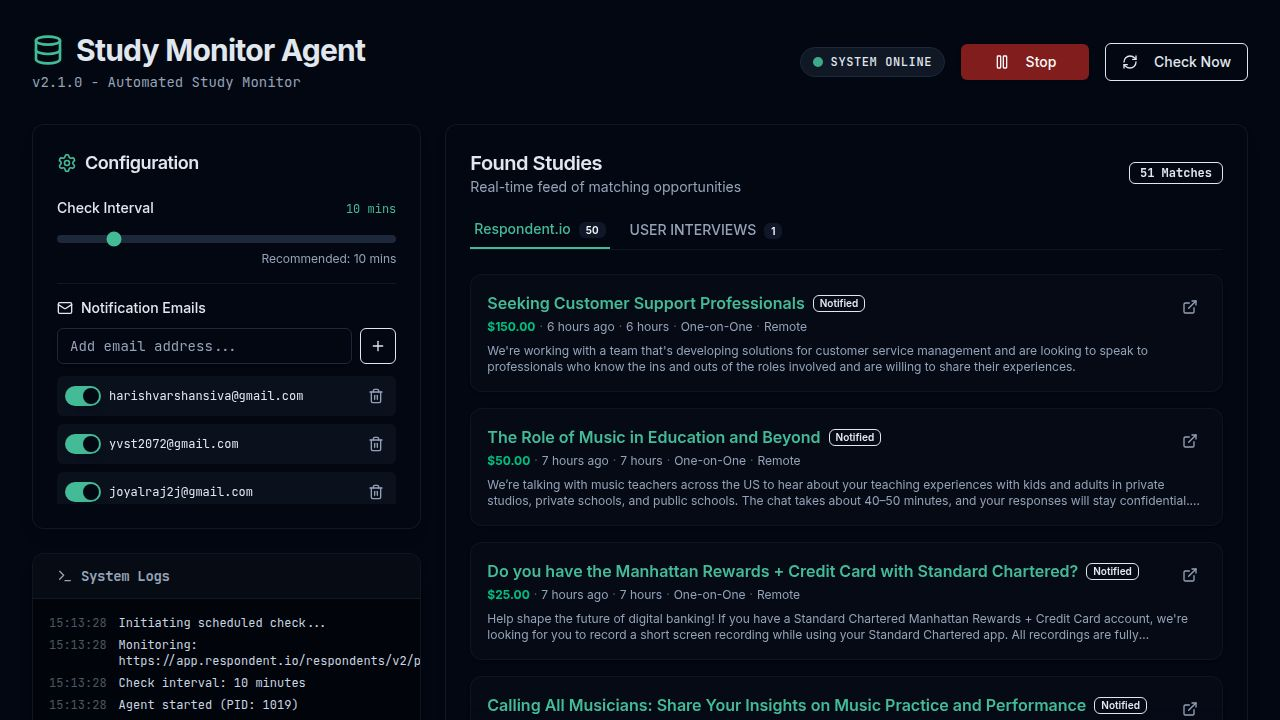
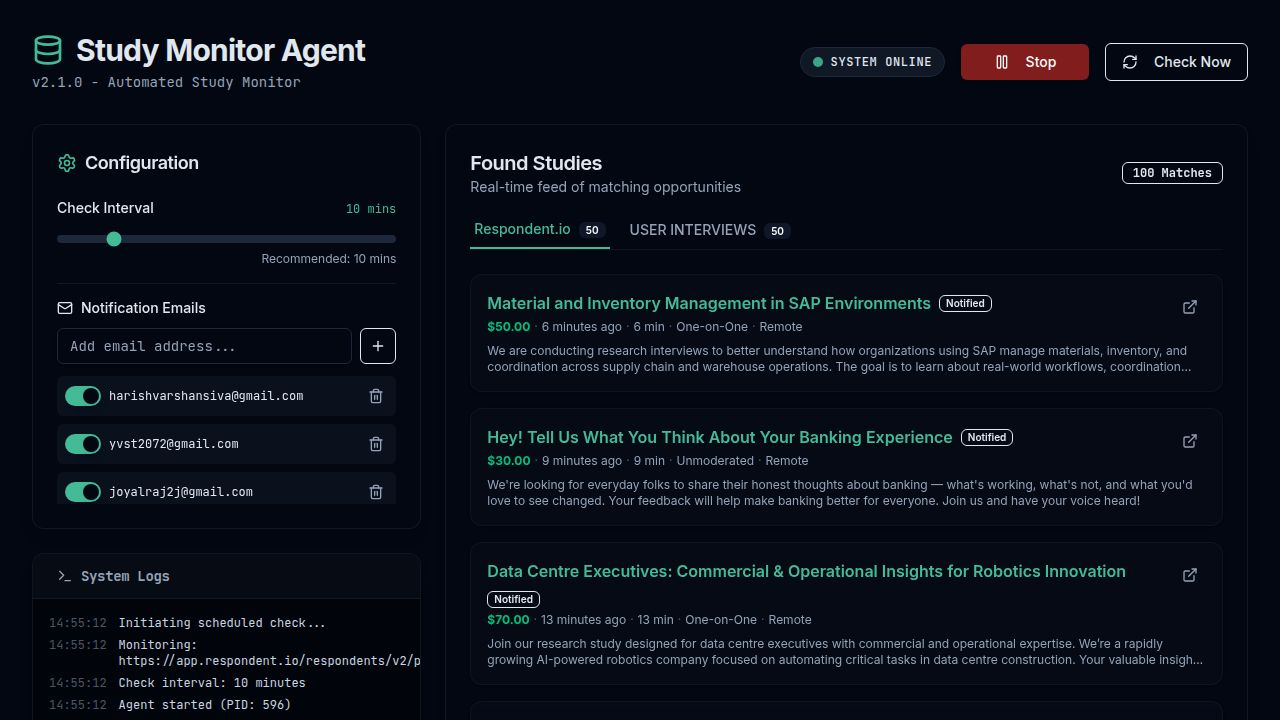
Update study scraping and notifications to correctly display information
Refactors the User Interviews scraping logic to accurately extract study payout and duration, and updates logging and email notifications to clearly label study sources as 'Respondent.io' or 'User Interviews'.

Replit-Commit-Author: Agent
Replit-Commit-Session-Id: bab7a0d9-899f-48bb-af42-cc7baa8dabe6
Replit-Commit-Checkpoint-Type: full_checkpoint
Replit-Commit-Event-Id: 573b36c7-297f-42d4-859a-39e23a9a3aa0
Replit-Commit-Screenshot-Url: https://storage.googleapis.com/screenshot-production-us-central1/a5268491-a58c-43be-b987-22518db7b58a/bab7a0d9-899f-48bb-af42-cc7baa8dabe6/R6gcB1m
Replit-Helium-Checkpoint-Created: true

diff --git a/server/scraper.ts b/server/scraper.ts
@@ -299,23 +299,34 @@ export async function scrapeUserInterviewsStudies(): Promise<ScrapedStudy[]> {
         if (seenIds.has(externalId)) continue;
         seenIds.add(externalId);
 
-        // Payout extraction - be more specific to avoid picking up duration or other numbers
-        // Match $ followed by numbers, but ensure it's not immediately followed by "MINUTES" or "HOURS"
-        const payoutMatch = text.match(/\$\s*(\d+(?:,\d{3})*(?:\.\d{2})?)(?!\s*(?:min|hour|hr|minute))/i);
-        const payout = payoutMatch ? Math.round(parseFloat(payoutMatch[1].replace(/,/g, ''))) : 0;
-        if (payout <= 0) continue;
-
-        // Duration extraction - look for numbers specifically associated with time units
-        const durationMatch = text.match(/(\d+)\s*(?:min|hour|hr|minute)s?\b/i);
+        // Payout and Duration extraction - specifically targeting their known layout
+        // Incentive is usually at the top right, Duration is below it.
+        // We look for the incentive first ($XX)
+        const incentiveEl = card.querySelector('.ProjectListing__incentive, [class*="incentive"], [class*="Incentive"]');
+        const durationEl = card.querySelector('.ProjectListing__duration, [class*="duration"], [class*="Duration"]');
+        
+        let payout = 0;
         let duration = 'Unknown';
-        if (durationMatch) {
-          const unit = durationMatch[0].toLowerCase();
-          if (unit.includes('hour') || unit.includes('hr')) {
-            duration = `${durationMatch[1]} hr`;
-          } else {
-            duration = `${durationMatch[1]} min`;
+
+        if (incentiveEl) {
+          const pMatch = incentiveEl.textContent?.match(/\d+/);
+          payout = pMatch ? parseInt(pMatch[0]) : 0;
+        } else {
+          const pMatch = text.match(/\$\s*(\d+(?:,\d{3})*)/);
+          payout = pMatch ? parseInt(pMatch[1].replace(/,/g, '')) : 0;
+        }
+
+        if (durationEl) {
+          duration = durationEl.textContent?.trim() || 'Unknown';
+        } else {
+          // Fallback regex that avoids the payout number
+          const dMatch = text.match(/(\d+)\s*(?:min|hour|hr|minute)s?\b/i);
+          if (dMatch) {
+            duration = dMatch[0].toLowerCase().includes('hour') || dMatch[0].toLowerCase().includes('hr') ? `${dMatch[1]} hr` : `${dMatch[1]} min`;
           }
         }
+
+        if (payout <= 0) continue;
 
         // Study Format/Type extraction from badges
         const badges = Array.from(card.querySelectorAll('[class*="badge"], [class*="Tag"], .ProjectListing__type')).map(b => b.textContent?.toLowerCase() || '');

diff --git a/server/email.ts b/server/email.ts
@@ -69,7 +69,7 @@ export async function sendStudyNotification(emails: string[], studies: Study[]):
     const studyList = studies.map(study => `
       <tr style="border-bottom: 1px solid #e5e7eb;">
         <td style="padding: 16px;">
-          <h3 style="margin: 0 0 8px 0; color: #111827;">${study.title}</h3>
+          <h3 style="margin: 0 0 8px 0; color: #111827;">[${study.platform === 'respondent' ? 'Respondent.io' : 'User Interviews'}] ${study.title}</h3>
           <p style="margin: 0; color: #6b7280; font-size: 14px;">
             <strong>Payout:</strong> $${study.payout} | 
             <strong>Duration:</strong> ${study.duration} | 

diff --git a/server/agent.ts b/server/agent.ts
@@ -46,7 +46,7 @@ async function processPlatformStudies(platform: 'respondent' | 'userinterviews',
         notified: false,
       });
       newStudies.push(saved);
-      await addLog(`[${platform}] New study: "${saved.title}" ($${saved.payout})`, "success");
+      await addLog(`[${platform === 'respondent' ? 'Respondent.io' : 'User Interviews'}] New study: "${saved.title}" ($${saved.payout})`, "success");
     } else {
       await storage.updateStudy(scraped.externalId, {
         title: scraped.title,
